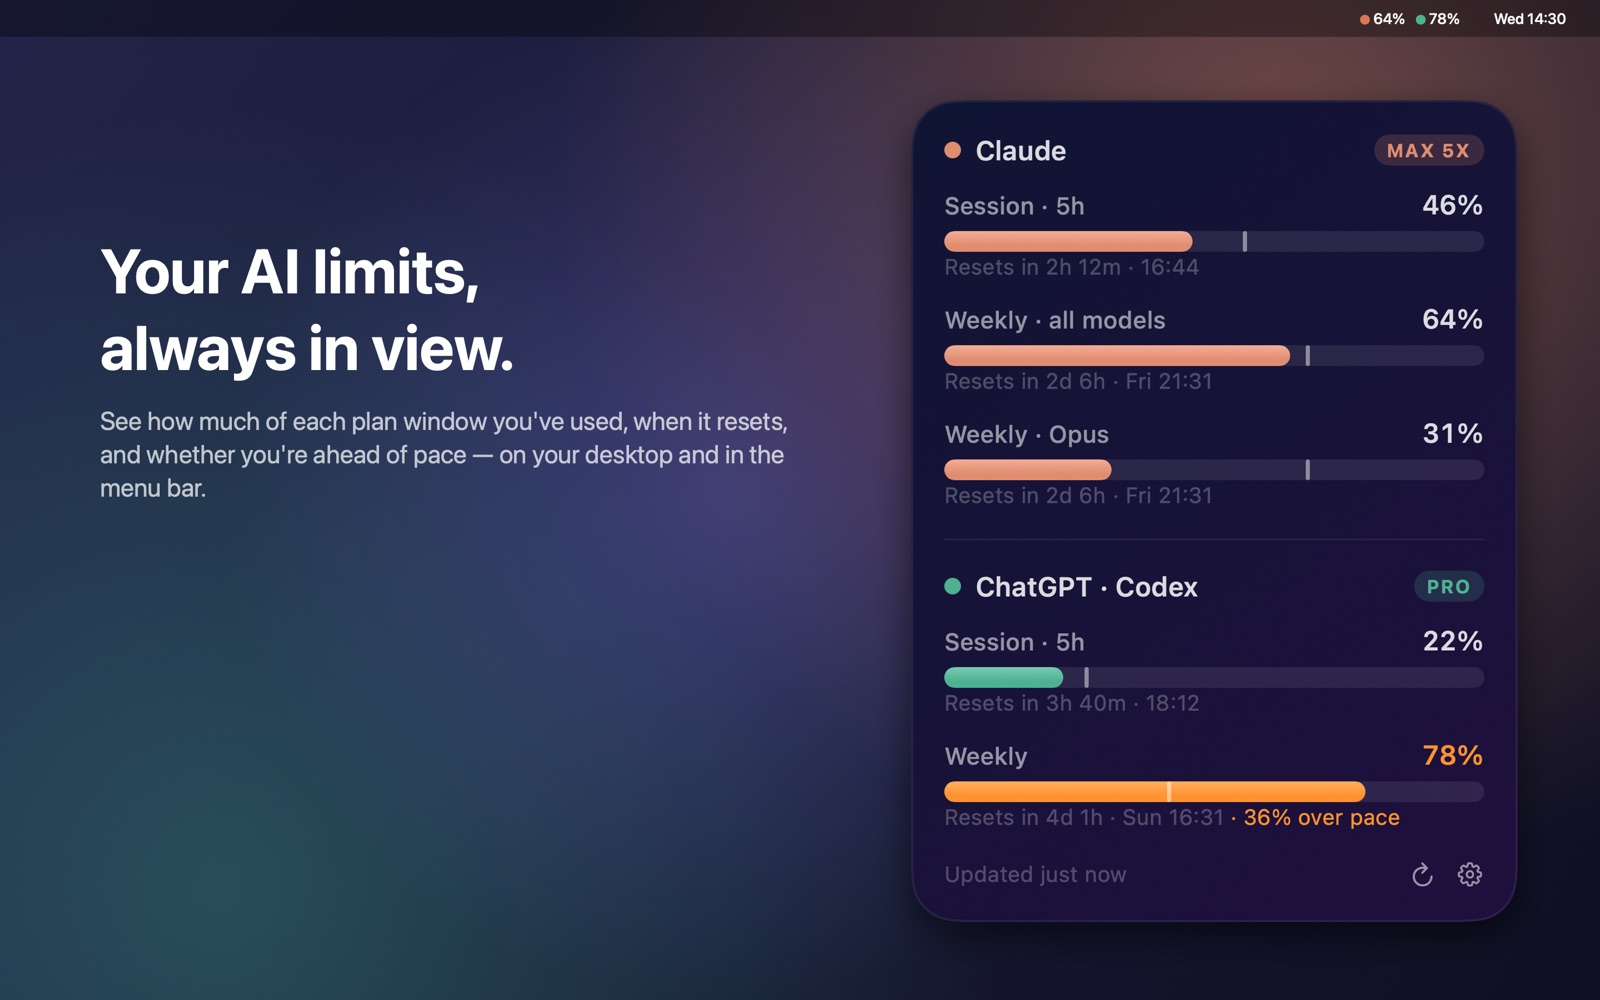
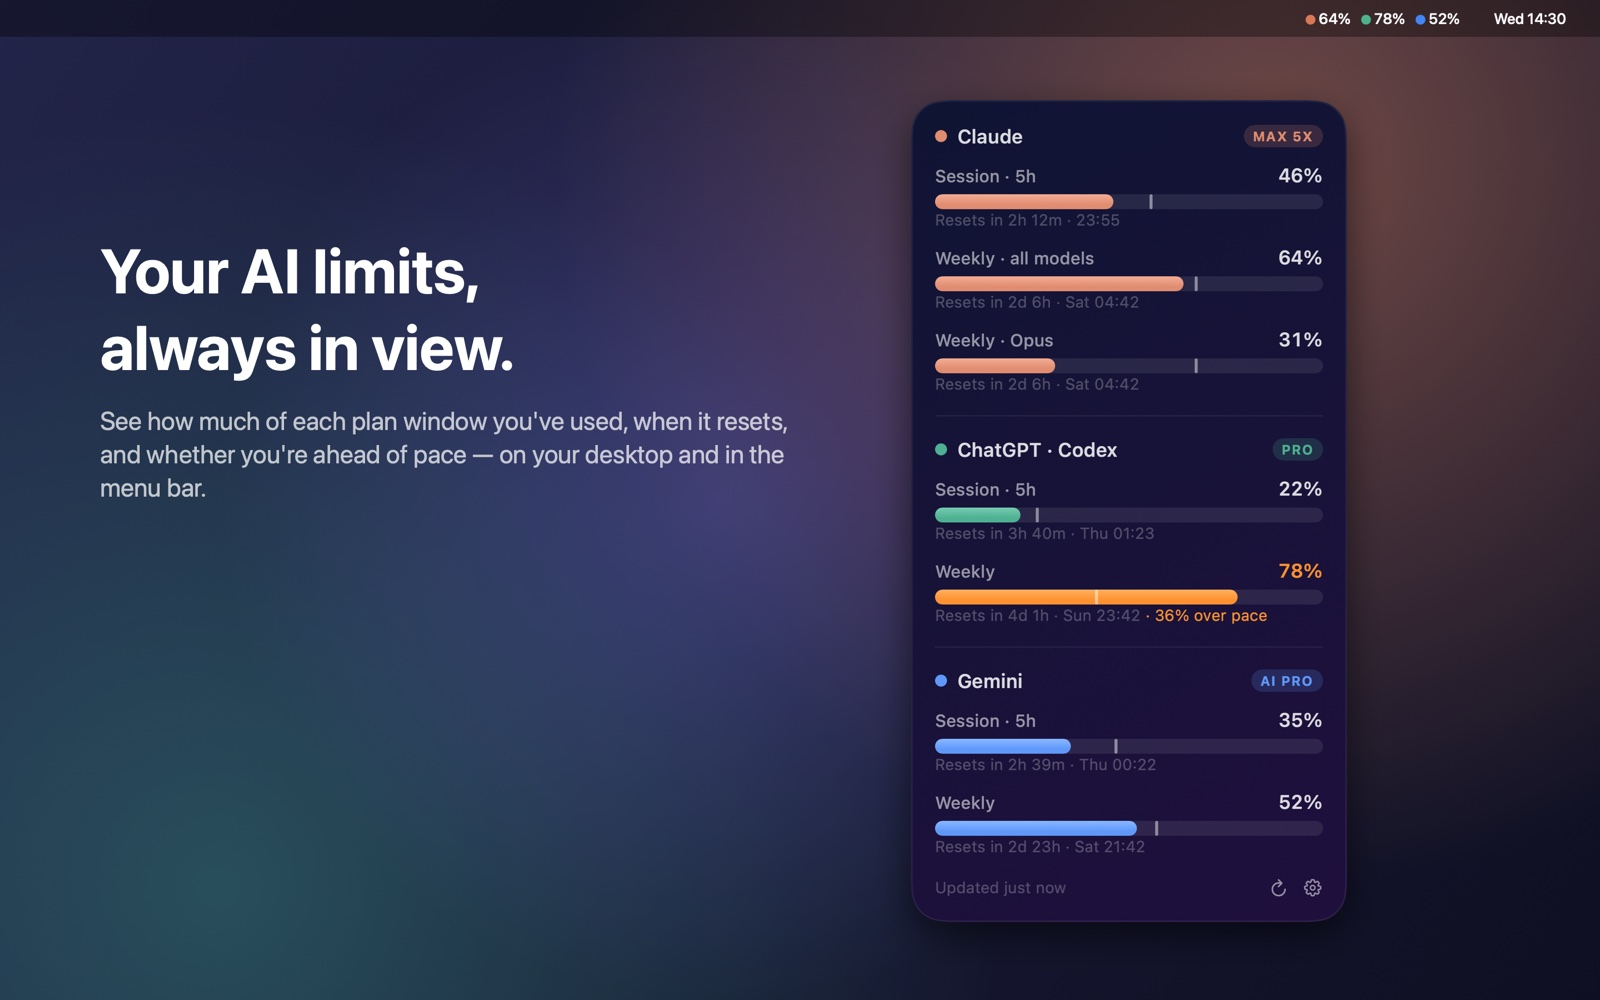
Sign in to each AI inside the app; add Gemini
The privacy policy, support page and home page now describe in-app
sign-in for Claude, ChatGPT and Gemini, with the older ways to connect
as optional extras.

Changed region(s): [[0.5625, 0.093, 0.9688, 0.93], [0.7812, 0.651, 0.8438, 0.744], [0.8125, 0.0, 0.9062, 0.031]]

diff --git a/privacy.html b/privacy.html
@@ -22,32 +22,38 @@
       <p><strong>We don't collect any data.</strong> AI Limits has no account, no analytics, no advertising and no server of its own. Your sign-ins and usage numbers stay on your devices.</p>
     </div>
 
+    <h2>Signing in to your AIs</h2>
+    <p>You sign in to Claude, ChatGPT and Gemini inside AI Limits, on each AI's own sign-in page (claude.ai, chatgpt.com, accounts.google.com) shown in a built-in browser window. Your password goes only to that AI's provider; AI Limits never sees or stores it.</p>
+    <p>The sign-in is kept in the app's own browser storage on your device, separate from your normal browser. To refresh, the app opens the AI's usage page in a hidden built-in browser and reads only your usage figures there. Your sign-in never leaves that page. Signing out in Settings deletes that AI's sign-in and website data from the app.</p>
+
     <h2>What stays on your device</h2>
     <ul>
       <li><strong>Your settings</strong>, such as which AIs and stats to show and the theme.</li>
       <li><strong>Your latest usage numbers</strong>, cached so the widget can show them straight away.</li>
-      <li><strong>Your claude.ai session key</strong>, if you add one. It's stored in your Mac's Keychain (Windows: Credential Manager).</li>
+      <li><strong>Your sign-ins</strong>, in the app's own browser storage, as described above.</li>
+      <li><strong>A claude.ai session key</strong>, only if you choose to paste one instead of signing in. It's stored in your Mac's Keychain (Windows: Credential Manager).</li>
     </ul>
 
-    <h3>Sign-ins the app reads from other apps</h3>
-    <p>The app reads these where the other apps keep them, each time it refreshes. It doesn't copy or change them.</p>
+    <h3>Sign-ins the app can read from other apps</h3>
+    <p>These are optional extras for people who use those apps. The app uses them only for an AI you haven't signed in to inside AI Limits, reads them where the other apps keep them, and doesn't copy or change them.</p>
     <ul>
       <li><strong>Codex:</strong> the Codex app's sign-in and usage logs, in the <code>.codex</code> folder in your home folder. The Mac App Store version reads it only after you choose that folder in Settings. The Mac direct download and the Windows app read it automatically.</li>
       <li><strong>Claude Code</strong> (Mac direct download and Windows only): Claude Code's login, if you've signed in to it. On a Mac it's in your Keychain; on Windows it's <code>.claude\.credentials.json</code> in your user folder. It's sent only to api.anthropic.com, to fetch your usage.</li>
       <li><strong>The Claude desktop app</strong> (Mac direct download and Windows only): the usage-limit entries Claude records in its own logs during Cowork sessions. The app uses them only when it can't get live numbers from Anthropic, and reads nothing else from those logs.</li>
     </ul>
-    <p>None of this is sent to us. Deleting the app deletes its own data, apart from the saved session key (Mac: Keychain item; Windows: Credential Manager entry), which you can remove first in Settings. The other apps' sign-ins and logs belong to those apps and stay as they are.</p>
+    <p>None of this is sent to us. Deleting the app deletes its own data, apart from a saved session key (Mac: Keychain item; Windows: Credential Manager entry), which you can remove first in Settings. The other apps' sign-ins and logs belong to those apps and stay as they are.</p>
 
     <h2>Who the app talks to</h2>
-    <p>To show your usage, the app sends requests with your own sign-in directly to the AI provider:</p>
+    <p>To show your usage, the app connects only to each AI provider's own website, with your own sign-in:</p>
     <ul>
       <li><strong>Anthropic</strong> (claude.ai, api.anthropic.com) for Claude</li>
-      <li><strong>OpenAI</strong> (chatgpt.com) for ChatGPT and Codex</li>
+      <li><strong>OpenAI</strong> (chatgpt.com, and auth.openai.com when you sign in) for ChatGPT and Codex</li>
+      <li><strong>Google</strong> (gemini.google.com, and accounts.google.com when you sign in) for Gemini</li>
     </ul>
-    <p>Those requests fetch only your usage figures, never your conversations. They're covered by each provider's own privacy policy. The app identifies itself to Anthropic's API and to OpenAI as "AILimits". Requests to claude.ai use a standard browser identifier.</p>
+    <p>The app reads only your usage figures, never your conversations. Those websites are covered by each provider's own privacy policy, and while a page is loaded the provider may set its usual cookies in the app's browser storage. Anthropic, OpenAI and Google don't officially support third-party apps reading usage, so connecting an AI is at your own risk.</p>
 
     <h2>iCloud (Apple devices)</h2>
-    <p>The Mac App Store version can share your usage numbers with the AI Limits iPhone app through your private iCloud storage. Only the numbers are shared, never sign-ins or session keys. The data is held by Apple under <a href="https://www.apple.com/legal/privacy/">Apple's privacy policy</a>, and we can't see it. You can turn this off in Settings → General → Show usage on iPhone.</p>
+    <p>The Mac App Store version can also share your usage numbers with the AI Limits iPhone and iPad app through your private iCloud storage, for any AI you haven't signed in to on the phone. Only the numbers are shared, never sign-ins or session keys. The data is held by Apple under <a href="https://www.apple.com/legal/privacy/">Apple's privacy policy</a>, and we can't see it. You can turn this off in Settings → General → Show usage on iPhone.</p>
 
     <h2>Children</h2>
     <p>AI Limits isn't directed at children and collects no personal information from anyone.</p>

diff --git a/support.html b/support.html
@@ -19,13 +19,17 @@
 
     <h2>Getting started</h2>
     <h3>Where's the app?</h3>
-    <p>AI Limits lives in the menu bar (look for two percentages) and as a widget on your desktop. Click the menu bar item for Settings, or right-click the widget.</p>
+    <p>On a Mac, AI Limits lives in the menu bar (look for the percentages) and as a widget on your desktop. Click the menu bar item for Settings, or right-click the widget. On Windows it sits in the notification area; on iPhone, iPad and Android, open the app and add its widget to your home screen.</p>
 
-    <h3>Connecting Claude</h3>
-    <p>Open claude.ai in your browser, then open Developer Tools → Storage (Safari) or Application (Chrome) → Cookies → https://claude.ai. Copy the value of <strong>sessionKey</strong> and paste it into Settings → AIs → Claude. The key is stored in your Keychain. Anthropic doesn't officially support third-party apps reading Claude usage, so connecting Claude is at your own risk. Signing out of claude.ai in that browser may end the session, and then you'll need to paste a new key.</p>
+    <h3>Signing in to your AIs</h3>
+    <p>Open Settings → AIs and click <strong>Sign In…</strong> next to Claude, ChatGPT or Gemini (on iPhone, iPad and Android: Settings in the app). The AI's own sign-in page opens inside AI Limits. Sign in as you normally would, and the window closes by itself when you're done. The widget fills in within a few seconds.</p>
+    <p>Your sign-in stays in AI Limits' own browser storage, separate from your normal browser, so signing out of the app never signs you out anywhere else. Anthropic, OpenAI and Google don't officially support third-party apps reading usage, so connecting an AI is at your own risk.</p>
 
-    <h3>Connecting ChatGPT · Codex</h3>
-    <p>Sign in to OpenAI's Codex app with your ChatGPT account first. Then, in Settings → AIs → ChatGPT · Codex, click <strong>Allow Access…</strong> and choose the hidden <code>.codex</code> folder in your home folder. Press ⌘⇧. in the file picker to show hidden folders.</p>
+    <h3>Signing in with Google doesn't work</h3>
+    <p>Google sometimes refuses sign-ins inside apps. If that happens, sign in to that AI with its email option instead of "Continue with Google", where it offers one. For Gemini there's no alternative yet, so please <a href="https://github.com/Silozo17/ailimits/issues/new">open an issue</a> to let us know.</p>
+
+    <h3>Other ways to connect (Mac and Windows)</h3>
+    <p>If you use OpenAI's Codex app or Claude Code, AI Limits can read their sign-ins for an AI you haven't signed in to inside the app. On a Mac you can also paste a claude.ai <strong>sessionKey</strong> under Settings → AIs → Claude → Other ways to connect.</p>
 
     <h3>Trying it without an account</h3>
     <p>Settings → General → <strong>Show sample data</strong> fills the widget with example numbers.</p>

diff --git a/index.html b/index.html
@@ -16,8 +16,8 @@
   </header>
   <main>
     <h1>Your AI limits, always in view.</h1>
-    <p class="lede">AI Limits is a Mac desktop widget and menu bar app. It shows how much of each AI plan window you've used, when it resets, and whether you're ahead of pace, so you don't get cut off mid-task.</p>
-    <img class="hero" src="assets/hero.jpg" alt="The AI Limits widget on a Mac desktop, showing session and weekly limits for two AI plans.">
+    <p class="lede">AI Limits is a desktop widget and menu bar app for Mac, with versions for iPhone, iPad, Windows and Android on the way. It shows how much of each AI plan window you've used, when it resets, and whether you're ahead of pace, so you don't get cut off mid-task.</p>
+    <img class="hero" src="assets/hero.jpg" alt="The AI Limits widget on a Mac desktop, showing session and weekly limits for Claude, ChatGPT and Gemini.">
 
     <h2>What it shows</h2>
     <ul>
@@ -30,9 +30,10 @@
     <h2>Works with</h2>
     <ul>
       <li><strong>Claude</strong> Pro and Max plans</li>
-      <li><strong>ChatGPT</strong> Plus and Pro plans (Codex usage), through the Codex app's sign-in</li>
+      <li><strong>ChatGPT</strong> Plus and Pro plans (Codex usage limits)</li>
+      <li><strong>Gemini</strong> with a Google AI plan</li>
     </ul>
-    <p>You need your own subscription to each service you connect. Your sign-ins stay on your Mac. See the <a href="privacy.html">privacy policy</a>.</p>
+    <p>Sign in to each one right in the app, on the AI's own sign-in page. You need your own subscription to each service you connect. Your sign-ins stay in the app on your device. See the <a href="privacy.html">privacy policy</a>.</p>
   </main>
   <footer>
     AI Limits is an independent app, not affiliated with, endorsed by or sponsored by Anthropic, OpenAI or Google. Claude is a trademark of Anthropic. ChatGPT and Codex are trademarks of OpenAI.<br>
